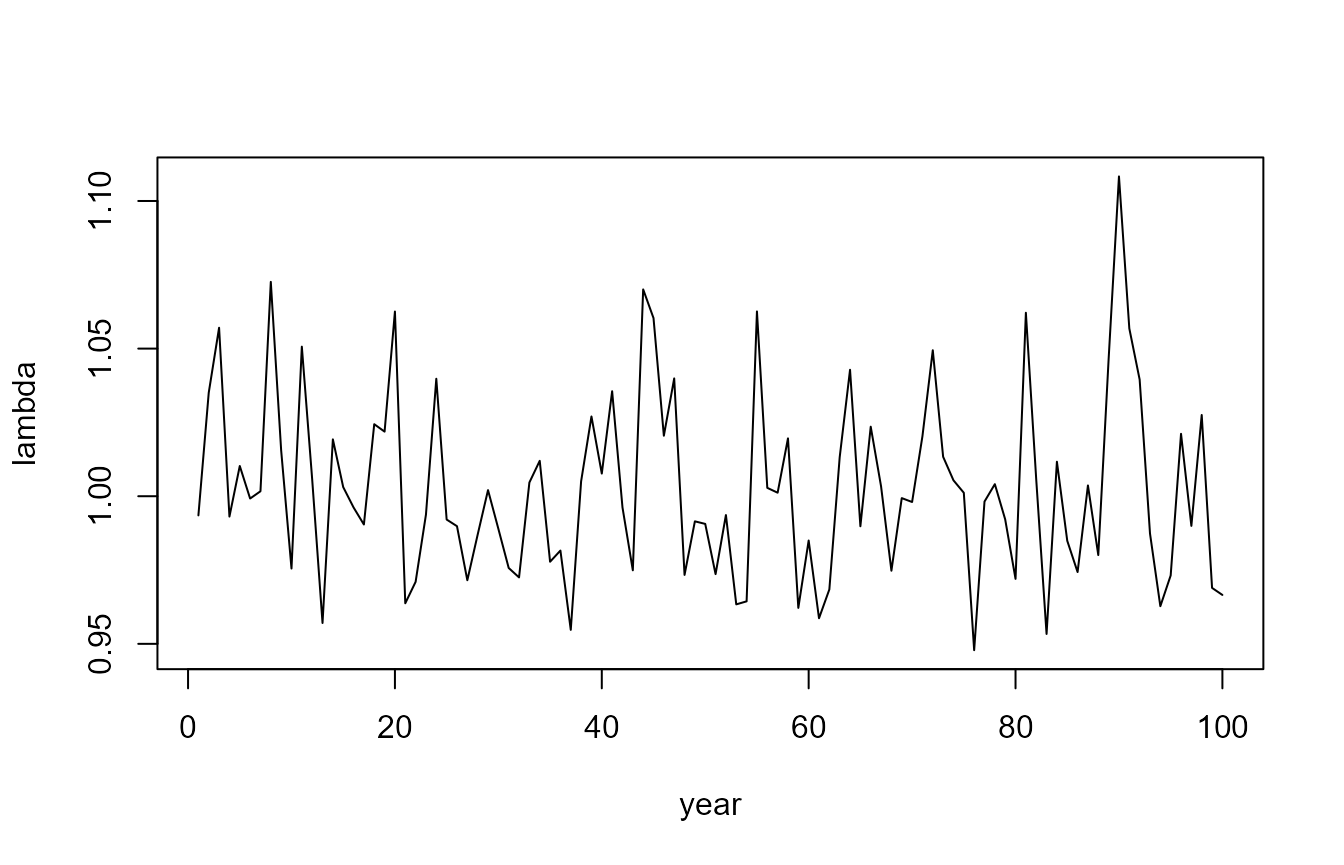
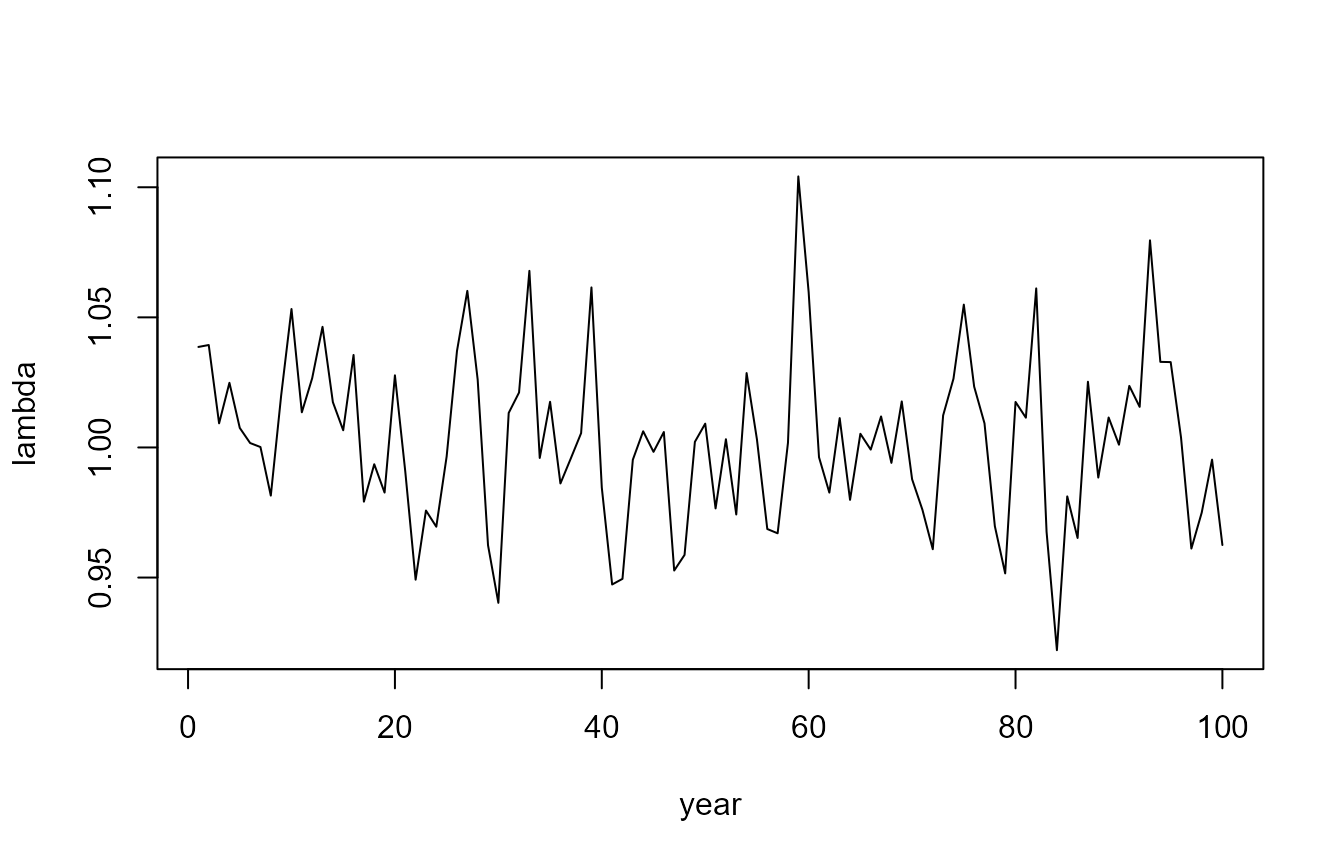
gh pages

diff --git a/docs/articles/population-model-batch-run.html b/docs/articles/population-model-batch-run.html
@@ -162,19 +162,19 @@ variables “ce” or baseline reference conditions “baseline”.</p>
 <span>    <span class="co"># Review output</span></span>
 <span>    <span class="fu"><a href="https://rdrr.io/r/utils/head.html" class="external-link">head</a></span><span class="op">(</span><span class="va">data</span>, <span class="fl">3</span><span class="op">)</span></span>
 <span><span class="co">#&gt;   year        N MC_sim group</span></span>
-<span><span class="co">#&gt; 1    0 192.4050      1    ce</span></span>
-<span><span class="co">#&gt; 2    1 172.3382      1    ce</span></span>
-<span><span class="co">#&gt; 3    2 158.9965      1    ce</span></span>
+<span><span class="co">#&gt; 1    0 162.7862      1    ce</span></span>
+<span><span class="co">#&gt; 2    1 152.4776      1    ce</span></span>
+<span><span class="co">#&gt; 3    2 138.7072      1    ce</span></span>
 <span></span>
 <span>    <span class="co"># Look the median adult abundance</span></span>
 <span>    </span>
 <span>    <span class="co"># with stressor variables (cumulative effects)</span></span>
 <span>    <span class="fu"><a href="https://rdrr.io/r/stats/median.html" class="external-link">median</a></span><span class="op">(</span><span class="va">data</span><span class="op">$</span><span class="va">N</span><span class="op">[</span><span class="fu"><a href="https://rdrr.io/r/base/which.html" class="external-link">which</a></span><span class="op">(</span><span class="va">data</span><span class="op">$</span><span class="va">group</span> <span class="op">==</span> <span class="st">"ce"</span><span class="op">)</span><span class="op">]</span>, na.rm <span class="op">=</span> <span class="cn">TRUE</span><span class="op">)</span></span>
-<span><span class="co">#&gt; [1] 97.07495</span></span>
+<span><span class="co">#&gt; [1] 99.85501</span></span>
 <span>    </span>
 <span>    <span class="co"># and without stressor variables (baseline status quo)</span></span>
 <span>    <span class="fu"><a href="https://rdrr.io/r/stats/median.html" class="external-link">median</a></span><span class="op">(</span><span class="va">data</span><span class="op">$</span><span class="va">N</span><span class="op">[</span><span class="fu"><a href="https://rdrr.io/r/base/which.html" class="external-link">which</a></span><span class="op">(</span><span class="va">data</span><span class="op">$</span><span class="va">group</span> <span class="op">==</span> <span class="st">"baseline"</span><span class="op">)</span><span class="op">]</span>, na.rm <span class="op">=</span> <span class="cn">TRUE</span><span class="op">)</span></span>
-<span><span class="co">#&gt; [1] 99.23957</span></span></code></pre></div>
+<span><span class="co">#&gt; [1] 98.96436</span></span></code></pre></div>
 </div>
 <div class="section level2">
 <h2 id="visualize-the-time-series-projections">Visualize the Time Series Projections<a class="anchor" aria-label="anchor" href="#visualize-the-time-series-projections"></a>

diff --git a/docs/articles/population-model.html b/docs/articles/population-model.html
@@ -315,7 +315,7 @@ stressors are included.</p>
 <span><span class="va">baseline_sys_cap</span> <span class="op">&lt;-</span> <span class="fu">stats</span><span class="fu">::</span><span class="fu"><a href="https://rdrr.io/r/stats/median.html" class="external-link">median</a></span><span class="op">(</span><span class="va">baseline</span><span class="op">$</span><span class="va">pop</span><span class="op">$</span><span class="va">N</span><span class="op">[</span><span class="fl">50</span><span class="op">:</span><span class="fl">100</span><span class="op">]</span><span class="op">)</span></span>
 <span><span class="va">ce_sys_cap</span> <span class="op">&lt;-</span> <span class="fu">stats</span><span class="fu">::</span><span class="fu"><a href="https://rdrr.io/r/stats/median.html" class="external-link">median</a></span><span class="op">(</span><span class="va">ce_pop</span><span class="op">$</span><span class="va">pop</span><span class="op">$</span><span class="va">N</span><span class="op">[</span><span class="fl">50</span><span class="op">:</span><span class="fl">100</span><span class="op">]</span><span class="op">)</span></span>
 <span><span class="va">ce_sys_cap</span> <span class="op">/</span> <span class="va">baseline_sys_cap</span></span>
-<span><span class="co">#&gt; [1] 0.7202557</span></span></code></pre></div>
+<span><span class="co">#&gt; [1] 0.6864111</span></span></code></pre></div>
 </div>
 
   </main><aside class="col-md-3"><nav id="toc"><h2>On this page</h2>
